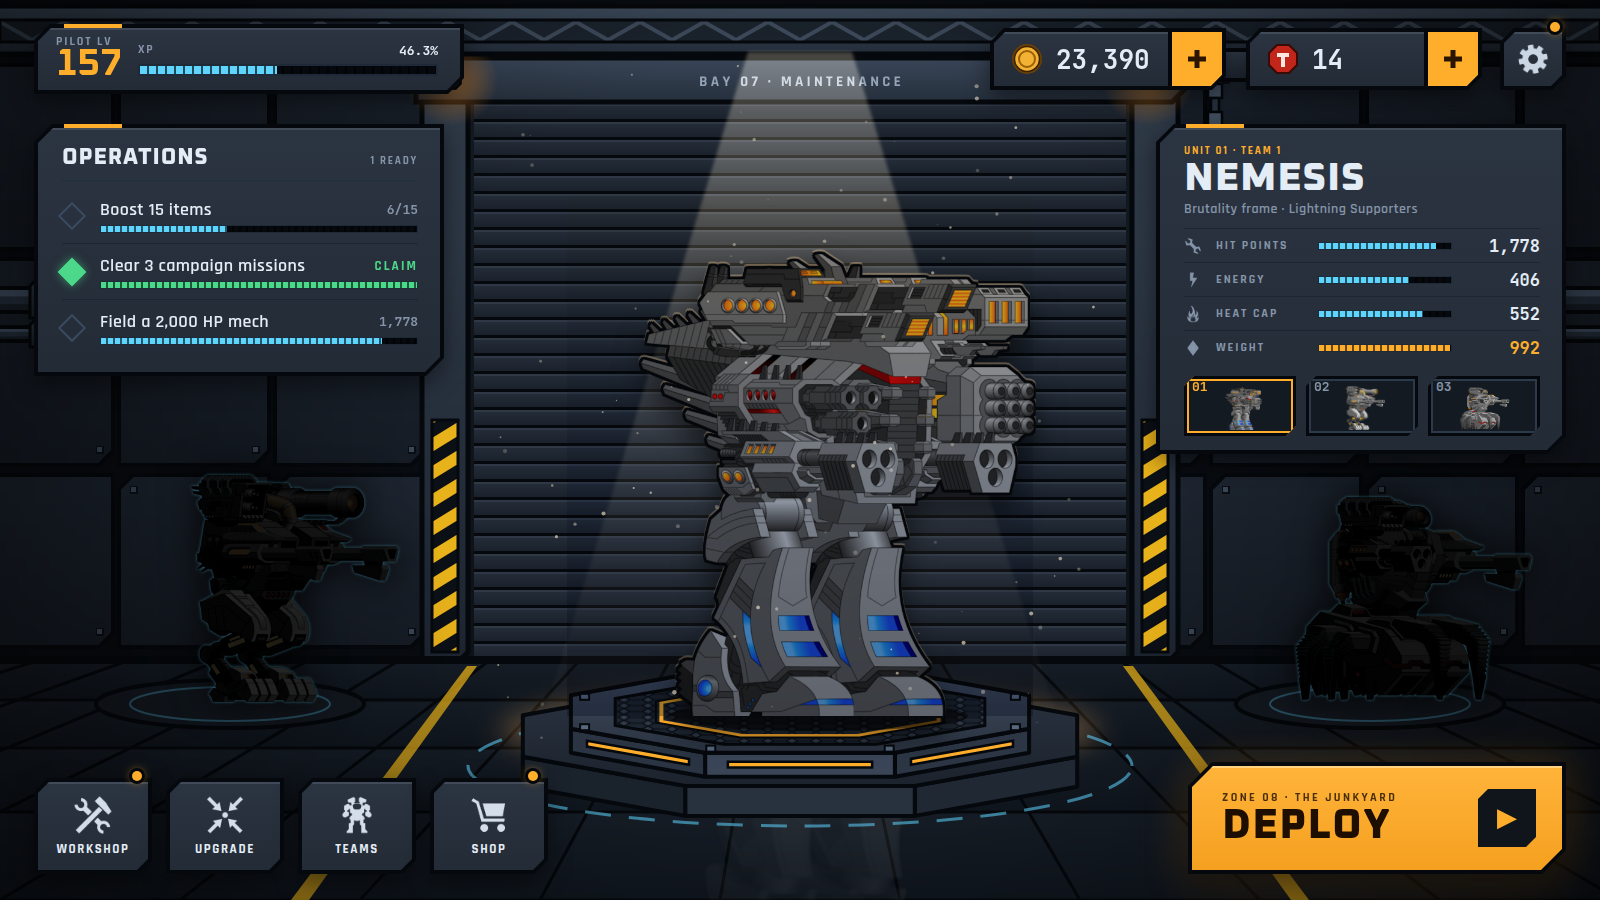
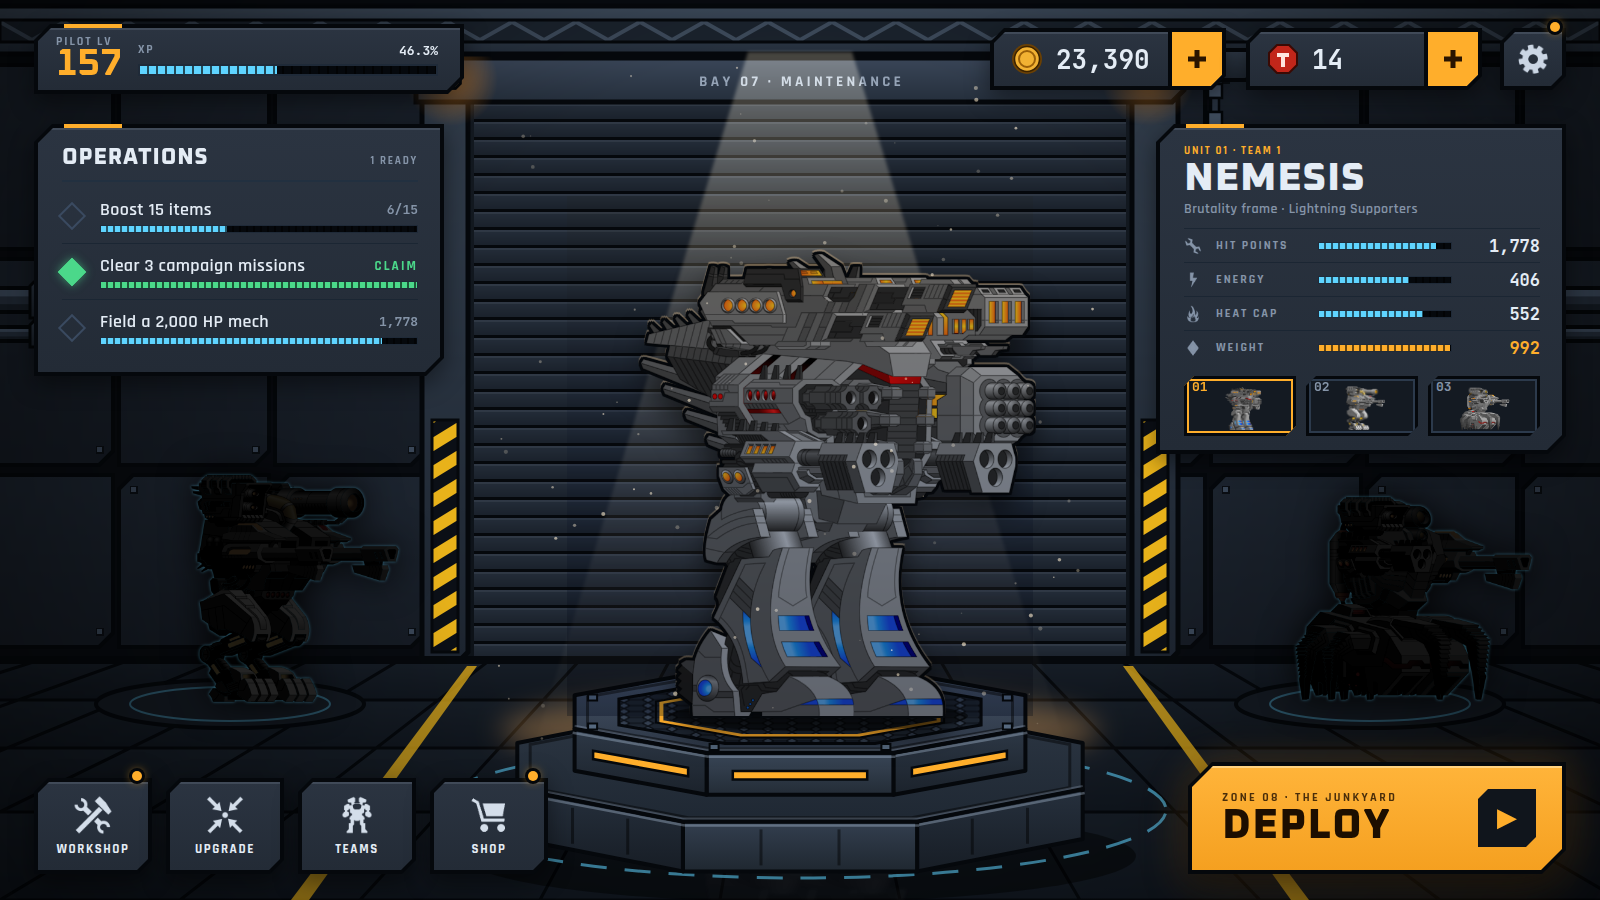
Give the pedestal real volume
Taller tiers, per-face shading (front lit, angled faces darker), lit bevel
along each top edge, ribs on the base, a wider stepped base and a floor
shadow. Generated by ui/mocks/build_pedestal.py.

Claude-Session: https://claude.ai/code/session_016EMeU7WbdybdkHaQ4QiAx5

Changed region(s): [[0.3125, 0.7467, 0.7188, 0.9956], [0.375, 0.7467, 0.4062, 0.7778]]

diff --git a/ui/mocks/F-bay.html b/ui/mocks/F-bay.html
@@ -128,33 +128,56 @@ canvas{position:absolute;left:0;top:0;width:1600px;height:900px}
       <pattern id="hex" width="24" height="14" patternUnits="userSpaceOnUse" patternTransform="scale(1,.42)">
         <path d="M6 0h12l6 7-6 7H6L0 7z" fill="#1d2530" stroke="#0b0f15" stroke-width="2.5"/>
       </pattern>
-      <linearGradient id="ptop" x1="0" y1="0" x2="0" y2="1"><stop offset="0" stop-color="#3e4a5c"/><stop offset="1" stop-color="#2a3341"/></linearGradient>
-      <linearGradient id="ptop2" x1="0" y1="0" x2="0" y2="1"><stop offset="0" stop-color="#2a3341"/><stop offset="1" stop-color="#1c232d"/></linearGradient>
+      <linearGradient id="pf1" x1="0" y1="0" x2="0" y2="1"><stop offset="0" stop-color="#2c3643"/><stop offset="1" stop-color="#1f2833"/></linearGradient>
+      <linearGradient id="pf2" x1="0" y1="0" x2="0" y2="1"><stop offset="0" stop-color="#26303d"/><stop offset="1" stop-color="#171d25"/></linearGradient>
+      <linearGradient id="pf3" x1="0" y1="0" x2="0" y2="1"><stop offset="0" stop-color="#333f4f"/><stop offset="1" stop-color="#1f2730"/></linearGradient>
+      <linearGradient id="pf4" x1="0" y1="0" x2="0" y2="1"><stop offset="0" stop-color="#26303d"/><stop offset="1" stop-color="#171d25"/></linearGradient>
+      <linearGradient id="pf5" x1="0" y1="0" x2="0" y2="1"><stop offset="0" stop-color="#465366"/><stop offset="1" stop-color="#2c3645"/></linearGradient>
+      <linearGradient id="pf6" x1="0" y1="0" x2="0" y2="1"><stop offset="0" stop-color="#2d3846"/><stop offset="1" stop-color="#1b222b"/></linearGradient>
+      <linearGradient id="pf7" x1="0" y1="0" x2="0" y2="1"><stop offset="0" stop-color="#3a4758"/><stop offset="1" stop-color="#232c36"/></linearGradient>
+      <linearGradient id="pf8" x1="0" y1="0" x2="0" y2="1"><stop offset="0" stop-color="#2d3846"/><stop offset="1" stop-color="#1b222b"/></linearGradient>
     </defs>
-    <ellipse id="scan" cx="800" cy="766" rx="332" ry="60" fill="none" stroke="#5fd4ff" stroke-width="3" stroke-dasharray="26 18" opacity=".55"/>
-    <path d="M1077.2 756.7 L914.8 785.9 L914.8 815.9 L1077.2 786.7 Z" fill="#1f2833" stroke="#05080c" stroke-width="4" stroke-linejoin="round"/>
-    <path d="M914.8 785.9 L685.2 785.9 L685.2 815.9 L914.8 815.9 Z" fill="#28323f" stroke="#05080c" stroke-width="4" stroke-linejoin="round"/>
-    <path d="M685.2 785.9 L522.8 756.7 L522.8 786.7 L685.2 815.9 Z" fill="#1a222c" stroke="#05080c" stroke-width="4" stroke-linejoin="round"/>
-    <path d="M1077.2 756.7 L914.8 785.9 L685.2 785.9 L522.8 756.7 L522.8 715.3 L685.2 686.1 L914.8 686.1 L1077.2 715.3 Z" fill="url(#ptop2)" stroke="#05080c" stroke-width="4" stroke-linejoin="round"/>
-    <path d="M1029.1 728.8 L894.9 752.7 L894.9 776.7 L1029.1 752.8 Z" fill="#2c3645" stroke="#05080c" stroke-width="4" stroke-linejoin="round"/>
-    <path d="M1013.0 740.8 L911.0 758.9 L911.0 764.7 L1013.0 746.6 Z" fill="#ffae2b" stroke="#05080c" stroke-width="2.5"/>
-    <path d="M894.9 752.7 L705.1 752.7 L705.1 776.7 L894.9 776.7 Z" fill="#3a4658" stroke="#05080c" stroke-width="4" stroke-linejoin="round"/>
-    <path d="M872.1 761.8 L727.9 761.8 L727.9 767.5 L872.1 767.5 Z" fill="#ffae2b" stroke="#05080c" stroke-width="2.5"/>
-    <path d="M705.1 752.7 L570.9 728.8 L570.9 752.8 L705.1 776.7 Z" fill="#2a3442" stroke="#05080c" stroke-width="4" stroke-linejoin="round"/>
-    <path d="M689.0 758.9 L587.0 740.8 L587.0 746.6 L689.0 764.7 Z" fill="#ffae2b" stroke="#05080c" stroke-width="2.5"/>
-    <path d="M1029.1 728.8 L894.9 752.7 L705.1 752.7 L570.9 728.8 L570.9 695.2 L705.1 671.3 L894.9 671.3 L1029.1 695.2 Z" fill="url(#ptop)" stroke="#05080c" stroke-width="4" stroke-linejoin="round"/>
-    <path d="M984.8 725.4 L876.5 744.3 L723.5 744.3 L615.2 725.4 L615.2 698.6 L723.5 679.7 L876.5 679.7 L984.8 698.6 Z" fill="url(#hex)" stroke="#05080c" stroke-width="3"/>
+    <ellipse cx="800" cy="856" rx="336" ry="46" fill="#000" opacity=".45"/>
+    <ellipse id="scan" cx="800" cy="810" rx="366" ry="68" fill="none" stroke="#5fd4ff" stroke-width="3" stroke-dasharray="26 18" opacity=".55"/>
+    <path d="M1082.7 789.0 L917.1 821.4 L917.1 871.4 L1082.7 839.0 Z" fill="url(#pf2)" stroke="#05080c" stroke-width="4" stroke-linejoin="round"/>
+    <path d="M1084.7 793.0 L915.1 825.4" stroke="rgba(200,220,245,.32)" stroke-width="2.5"/>
+    <path d="M1027.5 807.8 L1027.5 843.8" stroke="rgba(0,0,0,.45)" stroke-width="3"/>
+    <path d="M972.3 818.6 L972.3 854.6" stroke="rgba(0,0,0,.45)" stroke-width="3"/>
+    <path d="M917.1 821.4 L682.9 821.4 L682.9 871.4 L917.1 871.4 Z" fill="url(#pf3)" stroke="#05080c" stroke-width="4" stroke-linejoin="round"/>
+    <path d="M919.1 825.4 L680.9 825.4" stroke="rgba(200,220,245,.32)" stroke-width="2.5"/>
+    <path d="M839.0 829.4 L839.0 865.4" stroke="rgba(0,0,0,.45)" stroke-width="3"/>
+    <path d="M761.0 829.4 L761.0 865.4" stroke="rgba(0,0,0,.45)" stroke-width="3"/>
+    <path d="M682.9 821.4 L517.3 789.0 L517.3 839.0 L682.9 871.4 Z" fill="url(#pf4)" stroke="#05080c" stroke-width="4" stroke-linejoin="round"/>
+    <path d="M684.9 825.4 L515.3 793.0" stroke="rgba(200,220,245,.32)" stroke-width="2.5"/>
+    <path d="M627.7 818.6 L627.7 854.6" stroke="rgba(0,0,0,.45)" stroke-width="3"/>
+    <path d="M572.5 807.8 L572.5 843.8" stroke="rgba(0,0,0,.45)" stroke-width="3"/>
+    <path d="M1082.7 789.0 L917.1 821.4 L682.9 821.4 L517.3 789.0 L517.3 743.0 L682.9 710.6 L917.1 710.6 L1082.7 743.0 Z" fill="url(#pf1)" stroke="#05080c" stroke-width="4" stroke-linejoin="round"/>
+    <path d="M1069.8 787.4 L911.7 817.7 L688.3 817.7 L530.2 787.4 L530.2 744.6 L688.3 714.3 L911.7 714.3 L1069.8 744.6 Z" fill="none" stroke="rgba(0,0,0,.45)" stroke-width="3"/>
+    <path d="M517.3 786.0 L682.9 818.4 L917.1 818.4 L1082.7 786.0" fill="none" stroke="rgba(200,220,245,.22)" stroke-width="2"/>
+    <path d="M1025.4 728.8 L893.4 752.7 L893.4 794.7 L1025.4 770.8 Z" fill="url(#pf6)" stroke="#05080c" stroke-width="4" stroke-linejoin="round"/>
+    <path d="M1027.4 732.8 L891.4 756.7" stroke="rgba(200,220,245,.32)" stroke-width="2.5"/>
+    <path d="M1006.9 750.7 L911.9 767.8 L911.9 776.2 L1006.9 759.1 Z" fill="#ffae2b" stroke="#05080c" stroke-width="2.5"/>
+    <path d="M893.4 752.7 L706.6 752.7 L706.6 794.7 L893.4 794.7 Z" fill="url(#pf7)" stroke="#05080c" stroke-width="4" stroke-linejoin="round"/>
+    <path d="M895.4 756.7 L704.6 756.7" stroke="rgba(200,220,245,.32)" stroke-width="2.5"/>
+    <path d="M867.2 771.1 L732.8 771.1 L732.8 779.5 L867.2 779.5 Z" fill="#ffae2b" stroke="#05080c" stroke-width="2.5"/>
+    <path d="M706.6 752.7 L574.6 728.8 L574.6 770.8 L706.6 794.7 Z" fill="url(#pf8)" stroke="#05080c" stroke-width="4" stroke-linejoin="round"/>
+    <path d="M708.6 756.7 L572.6 732.8" stroke="rgba(200,220,245,.32)" stroke-width="2.5"/>
+    <path d="M688.1 767.8 L593.1 750.7 L593.1 759.1 L688.1 776.2 Z" fill="#ffae2b" stroke="#05080c" stroke-width="2.5"/>
+    <path d="M1025.4 728.8 L893.4 752.7 L706.6 752.7 L574.6 728.8 L574.6 695.2 L706.6 671.3 L893.4 671.3 L1025.4 695.2 Z" fill="url(#pf5)" stroke="#05080c" stroke-width="4" stroke-linejoin="round"/>
+    <path d="M1012.5 727.3 L888.0 749.0 L712.0 749.0 L587.5 727.3 L587.5 696.7 L712.0 675.0 L888.0 675.0 L1012.5 696.7 Z" fill="none" stroke="rgba(0,0,0,.45)" stroke-width="3"/>
+    <path d="M574.6 725.8 L706.6 749.7 L893.4 749.7 L1025.4 725.8" fill="none" stroke="rgba(200,220,245,.22)" stroke-width="2"/>
+    <path d="M981.1 725.0 L875.0 743.4 L725.0 743.4 L618.9 725.0 L618.9 699.0 L725.0 680.6 L875.0 680.6 L981.1 699.0 Z" fill="url(#hex)" stroke="#05080c" stroke-width="3"/>
     <path d="M938.6 721.9 L857.4 736.0 L742.6 736.0 L661.4 721.9 L661.4 702.1 L742.6 688.0 L857.4 688.0 L938.6 702.1 Z" fill="none" stroke="#ffae2b" stroke-width="4"/>
     <path d="M944.1 722.5 L859.7 737.4 L740.3 737.4 L655.9 722.5 L655.9 701.5 L740.3 686.6 L859.7 686.6 L944.1 701.5 Z" fill="none" stroke="#05080c" stroke-width="2"/>
     <ellipse id="contact" cx="818" cy="716" rx="150" ry="15" fill="#000" opacity=".5"/>
-    <rect x="1010.9" y="724.2" width="9" height="6" fill="#56697f" stroke="#05080c" stroke-width="2"/>
-    <rect x="884.7" y="745.6" width="9" height="6" fill="#56697f" stroke="#05080c" stroke-width="2"/>
-    <rect x="706.3" y="745.6" width="9" height="6" fill="#56697f" stroke="#05080c" stroke-width="2"/>
-    <rect x="580.1" y="724.2" width="9" height="6" fill="#56697f" stroke="#05080c" stroke-width="2"/>
-    <rect x="580.1" y="693.8" width="9" height="6" fill="#56697f" stroke="#05080c" stroke-width="2"/>
-    <rect x="706.3" y="672.4" width="9" height="6" fill="#56697f" stroke="#05080c" stroke-width="2"/>
-    <rect x="884.7" y="672.4" width="9" height="6" fill="#56697f" stroke="#05080c" stroke-width="2"/>
-    <rect x="1010.9" y="693.8" width="9" height="6" fill="#56697f" stroke="#05080c" stroke-width="2"/>
+    <rect x="1002.9" y="723.5" width="9" height="6" fill="#56697f" stroke="#05080c" stroke-width="2"/>
+    <rect x="881.4" y="744.0" width="9" height="6" fill="#56697f" stroke="#05080c" stroke-width="2"/>
+    <rect x="709.6" y="744.0" width="9" height="6" fill="#56697f" stroke="#05080c" stroke-width="2"/>
+    <rect x="588.1" y="723.5" width="9" height="6" fill="#56697f" stroke="#05080c" stroke-width="2"/>
+    <rect x="588.1" y="694.5" width="9" height="6" fill="#56697f" stroke="#05080c" stroke-width="2"/>
+    <rect x="709.6" y="674.0" width="9" height="6" fill="#56697f" stroke="#05080c" stroke-width="2"/>
+    <rect x="881.4" y="674.0" width="9" height="6" fill="#56697f" stroke="#05080c" stroke-width="2"/>
+    <rect x="1002.9" y="694.5" width="9" height="6" fill="#56697f" stroke="#05080c" stroke-width="2"/>
   </svg>
   <div id="mech"></div>
   <div id="shade"></div>

diff --git a/ui/mocks/build_pedestal.py b/ui/mocks/build_pedestal.py
@@ -1,0 +1,89 @@
+"""Generate the faceted octagon pedestal SVG and write it into F-bay.html (replaces <svg id="ped">...</svg>).
+Run from the repo root:  python ui/mocks/build_pedestal.py
+"""
+import math, os, re
+
+HERE = os.path.dirname(os.path.abspath(__file__))
+OUT = '#05080c'
+CX, TOP_Y = 800, 712
+BASE = dict(cy=766, rx=306, ry=60, h=50)   # lower tier
+TOP = dict(cy=TOP_Y, rx=244, ry=44, h=42)  # upper tier, the mech stands on it
+
+
+def octo(cx, cy, rx, ry):
+    return [(cx + rx * math.cos(math.radians(22.5 + 45 * k)), cy + ry * math.sin(math.radians(22.5 + 45 * k))) for k in range(8)]
+
+
+def P(pts):
+    return 'M' + ' L'.join('%.1f %.1f' % p for p in pts) + ' Z'
+
+
+def lerp(a, b, t):
+    return (a[0] + (b[0] - a[0]) * t, a[1] + (b[1] - a[1]) * t)
+
+
+defs = []
+
+
+def grad(top, bot):
+    n = 'pf%d' % (len(defs) + 1)
+    defs.append('<linearGradient id="%s" x1="0" y1="0" x2="0" y2="1"><stop offset="0" stop-color="%s"/><stop offset="1" stop-color="%s"/></linearGradient>' % (n, top, bot))
+    return 'url(#%s)' % n
+
+
+def shade(a, b, lvl):
+    """Front faces lighter, angled faces darker, like light from the viewer's side."""
+    facing = 1 - min(1, abs((a[0] + b[0]) / 2 - CX) / 300)
+    dark, light = (0x1a, 0x22, 0x2c), (0x3a, 0x47, 0x58)
+    t = (.25 + .75 * facing) * lvl
+    c = tuple(int(dark[i] + (light[i] - dark[i]) * t) for i in range(3))
+    d = tuple(int(v * .62) for v in c)
+    return grad('#%02x%02x%02x' % c, '#%02x%02x%02x' % d)
+
+
+def tier(cy, rx, ry, h, top, lvl, strip=None, ribs=0):
+    pts = octo(CX, cy, rx, ry)
+    s = []
+    for k in range(8):
+        a, b = pts[k], pts[(k + 1) % 8]
+        if (a[1] + b[1]) / 2 <= cy + 1:
+            continue  # back faces are hidden
+        quad = [a, b, (b[0], b[1] + h), (a[0], a[1] + h)]
+        s.append('<path d="%s" fill="%s" stroke="%s" stroke-width="4" stroke-linejoin="round"/>' % (P(quad), shade(a, b, lvl), OUT))
+        s.append('<path d="M%.1f %.1f L%.1f %.1f" stroke="rgba(200,220,245,.32)" stroke-width="2.5"/>' % (a[0] + 2, a[1] + 4, b[0] - 2, b[1] + 4))
+        for r in range(1, ribs + 1):
+            p = lerp(a, b, r / (ribs + 1))
+            s.append('<path d="M%.1f %.1f L%.1f %.1f" stroke="rgba(0,0,0,.45)" stroke-width="3"/>' % (p[0], p[1] + 8, p[0], p[1] + h - 6))
+        if strip:
+            y0, y1 = h * .44, h * .64
+            q0, q1 = lerp(a, b, .14), lerp(a, b, .86)
+            q = [(q0[0], q0[1] + y0), (q1[0], q1[1] + y0), (q1[0], q1[1] + y1), (q0[0], q0[1] + y1)]
+            s.append('<path d="%s" fill="%s" stroke="%s" stroke-width="2.5"/>' % (P(q), strip, OUT))
+    s.append('<path d="%s" fill="%s" stroke="%s" stroke-width="4" stroke-linejoin="round"/>' % (P(pts), top, OUT))
+    s.append('<path d="%s" fill="none" stroke="rgba(0,0,0,.45)" stroke-width="3"/>' % P(octo(CX, cy, rx - 14, ry - 4)))
+    front = sorted(p for p in pts if p[1] > cy)
+    s.append('<path d="M%s" fill="none" stroke="rgba(200,220,245,.22)" stroke-width="2"/>' % ' L'.join('%.1f %.1f' % (x, y - 3) for x, y in front))
+    return s, pts
+
+
+out = ['<ellipse cx="%d" cy="%d" rx="%d" ry="46" fill="#000" opacity=".45"/>' % (CX, BASE['cy'] + BASE['ry'] + BASE['h'] - 20, BASE['rx'] + 30),
+       '<ellipse id="scan" cx="%d" cy="%d" rx="%d" ry="%d" fill="none" stroke="#5fd4ff" stroke-width="3" stroke-dasharray="26 18" opacity=".55"/>' % (CX, BASE['cy'] + 44, BASE['rx'] + 60, BASE['ry'] + 8)]
+out += tier(BASE['cy'], BASE['rx'], BASE['ry'], BASE['h'], grad('#2c3643', '#1f2833'), .8, ribs=2)[0]
+t, pts = tier(TOP['cy'], TOP['rx'], TOP['ry'], TOP['h'], grad('#465366', '#2c3645'), 1.0, strip='#ffae2b')
+out += t
+out.append('<path d="%s" fill="url(#hex)" stroke="%s" stroke-width="3"/>' % (P(octo(CX, TOP_Y, 196, 34)), OUT))
+out.append('<path d="%s" fill="none" stroke="#ffae2b" stroke-width="4"/>' % P(octo(CX, TOP_Y, 150, 26)))
+out.append('<path d="%s" fill="none" stroke="%s" stroke-width="2"/>' % (P(octo(CX, TOP_Y, 156, 27.5)), OUT))
+out.append('<ellipse id="contact" cx="818" cy="716" rx="150" ry="15" fill="#000" opacity=".5"/>')
+for (x, y) in pts:
+    out.append('<rect x="%.1f" y="%.1f" width="9" height="6" fill="#56697f" stroke="%s" stroke-width="2"/>' % (x - 4.5 + (CX - x) * .08, y - 3 + (TOP_Y - y) * .14, OUT))
+
+svg = ('<svg id="ped" width="1600" height="900" viewBox="0 0 1600 900">\n    <defs>\n'
+       '      <pattern id="hex" width="24" height="14" patternUnits="userSpaceOnUse" patternTransform="scale(1,.42)">\n'
+       '        <path d="M6 0h12l6 7-6 7H6L0 7z" fill="#1d2530" stroke="#0b0f15" stroke-width="2.5"/>\n      </pattern>\n      '
+       + '\n      '.join(defs) + '\n    </defs>\n    ' + '\n    '.join(out) + '\n  </svg>')
+p = os.path.join(HERE, 'F-bay.html')
+s = open(p, encoding='utf-8').read()
+s = re.sub(r'<svg id="ped".*?</svg>', lambda m: svg, s, flags=re.S)
+open(p, 'w', encoding='utf-8').write(s)
+print('pedestal written:', len(defs), 'face gradients')
